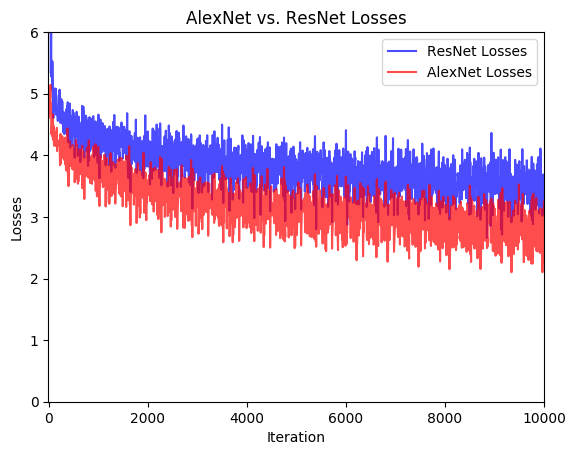
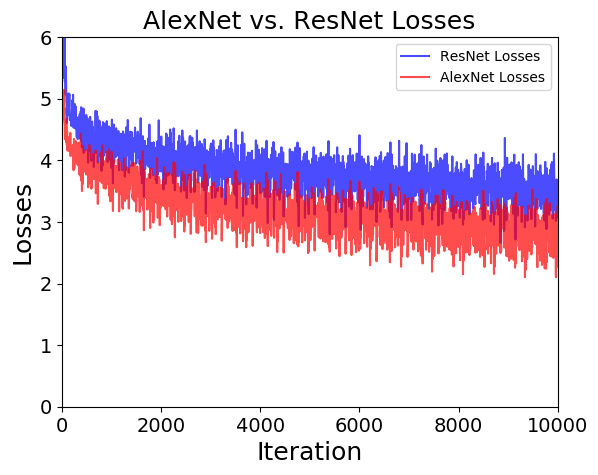
Plotting stuf

Changed region(s): [[0.0, 0.0, 1.0, 0.9846]]

diff --git a/model/tensorflow/plotter.py b/model/tensorflow/plotter.py
@@ -1,5 +1,11 @@
 import numpy as np
 import matplotlib.pyplot as plt
+import matplotlib
+matplotlib.rc('xtick', labelsize=14)
+matplotlib.rc('ytick', labelsize=14)
+graph_fontsize = 18
+matplotlib.rcParams['font.sans-serif'] = "Computer Modern"
+matplotlib.rcParams['font.family'] = "sans-serif"
 
 # Import Data
 resnetdirectory = './resnet/plots/'
@@ -24,19 +30,19 @@ iterations = np.arange(0,10000,data_divide)
 plt.figure(1)
 plt.plot(iterations, resnet_losses[::data_divide], 'b'+n, alpha=0.7, label='ResNet Losses')
 plt.plot(iterations, alexnet_losses[::data_divide], 'r'+n, alpha=0.7, label='AlexNet Losses')
-plt.title('AlexNet vs. ResNet Losses')
+plt.title('AlexNet vs. ResNet Losses', fontsize=graph_fontsize)
 plt.axis([-10, 10000, 0, 6])
 plt.legend(loc='upper right')
-plt.ylabel('Losses')
-plt.xlabel('Iteration')
+plt.ylabel('Losses', fontsize=graph_fontsize)
+plt.xlabel('Iteration', fontsize=graph_fontsize)
 plt.savefig('./plots/losscomparison.png', bbox_inches='tight')
 
 
 plt.figure(2)
 plt.plot(iterations, resnet_accuracies[::data_divide], 'b'+n, alpha=0.7, label='ResNet Top 5 Accuracies')
 plt.plot(iterations, alexnet_accuracies[::data_divide], 'r'+n, alpha=0.7, label='AlexNet Top 5 Accuracies')
-plt.title('AlexNet vs. ResNet Accuracies')
+plt.title('AlexNet vs. ResNet Accuracies', fontsize=graph_fontsize)
 plt.legend(loc='lower right')
-plt.ylabel('Accuracy [%]')
-plt.xlabel('Iteration')
+plt.ylabel('Accuracy [%]', fontsize=graph_fontsize)
+plt.xlabel('Iteration', fontsize=graph_fontsize)
 plt.savefig('./plots/accuracycomparison.png', bbox_inches='tight')
